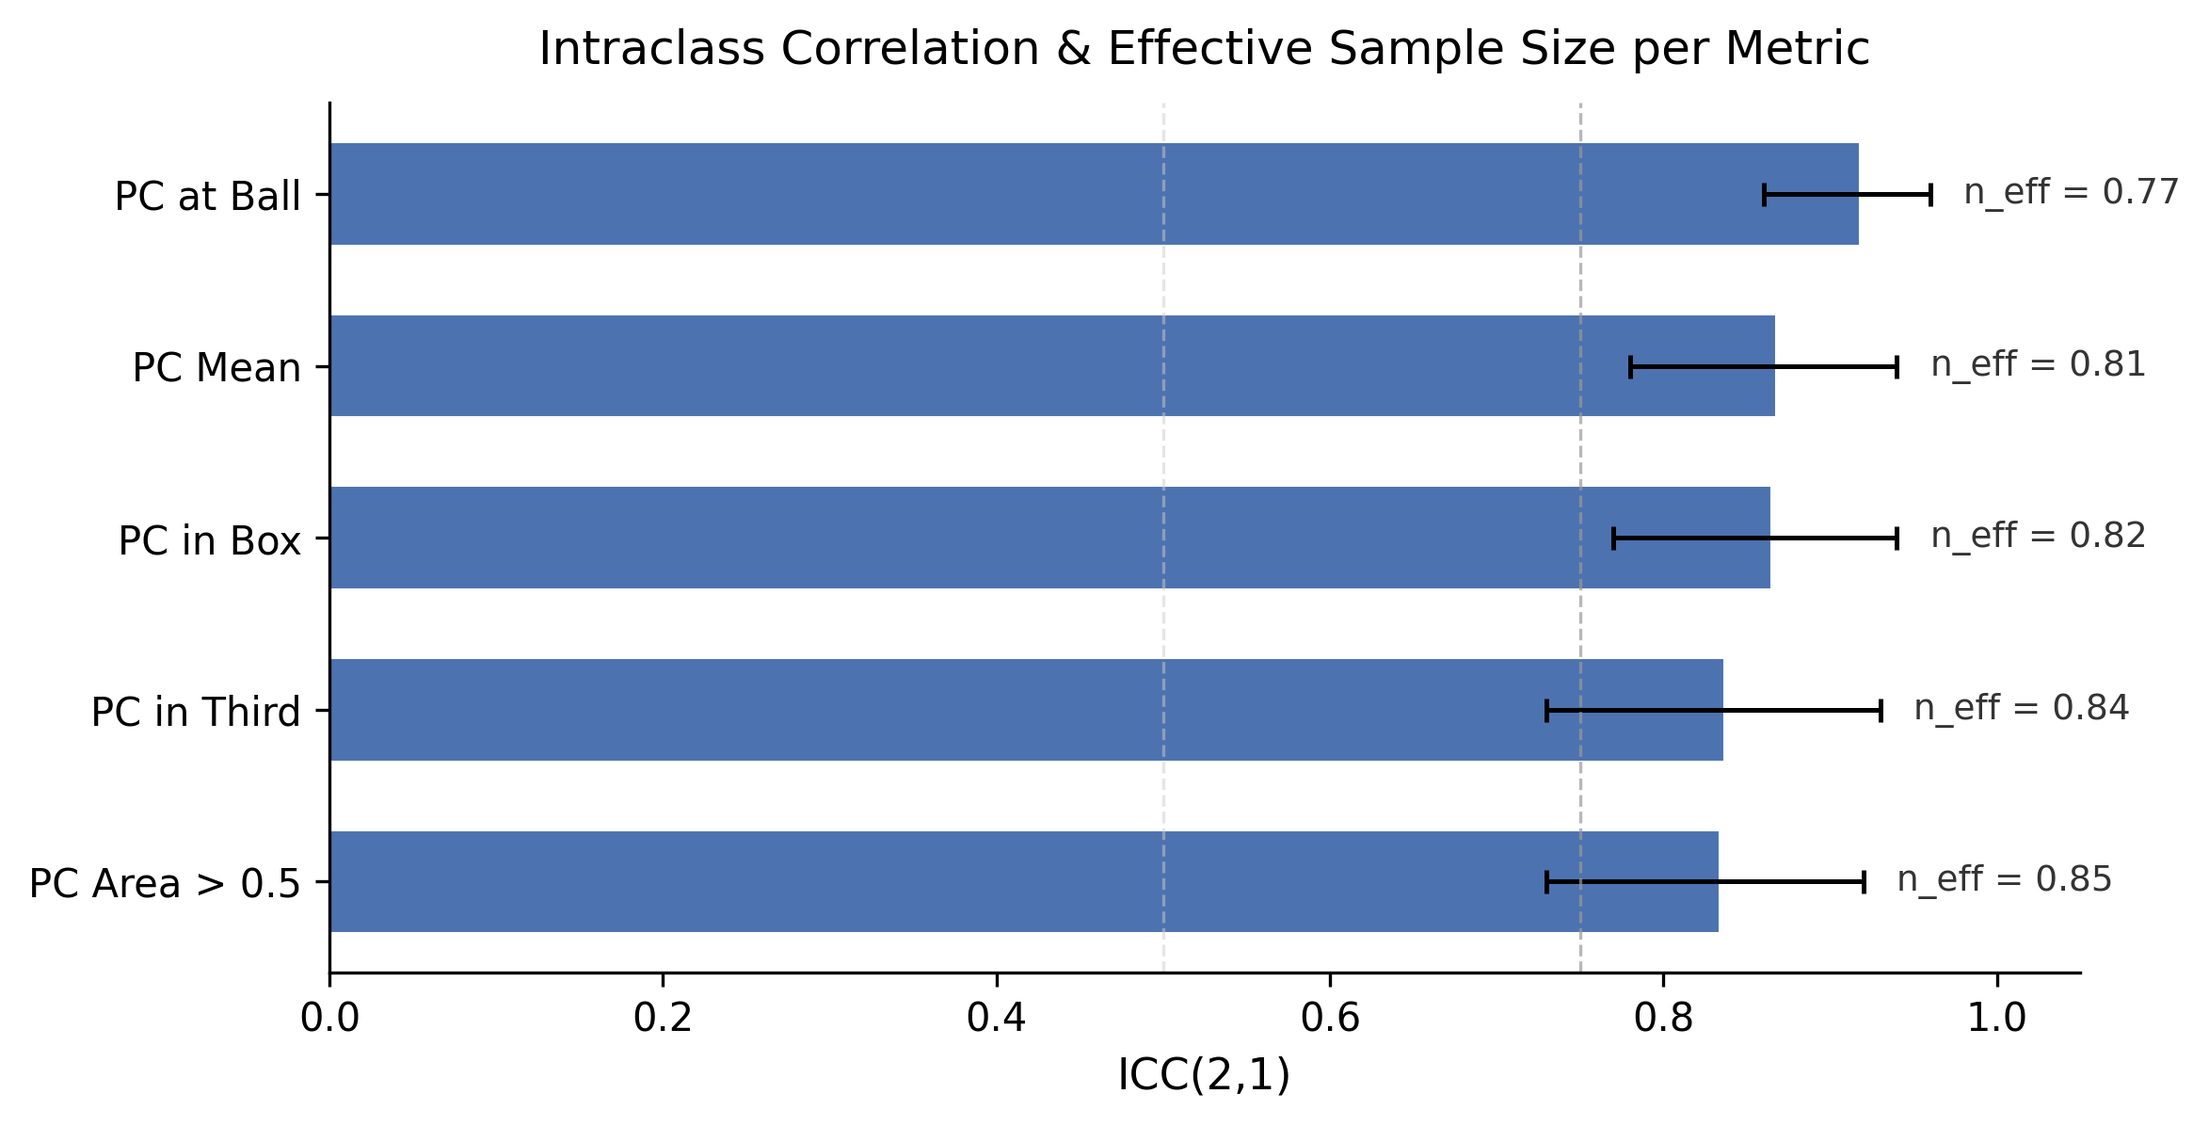
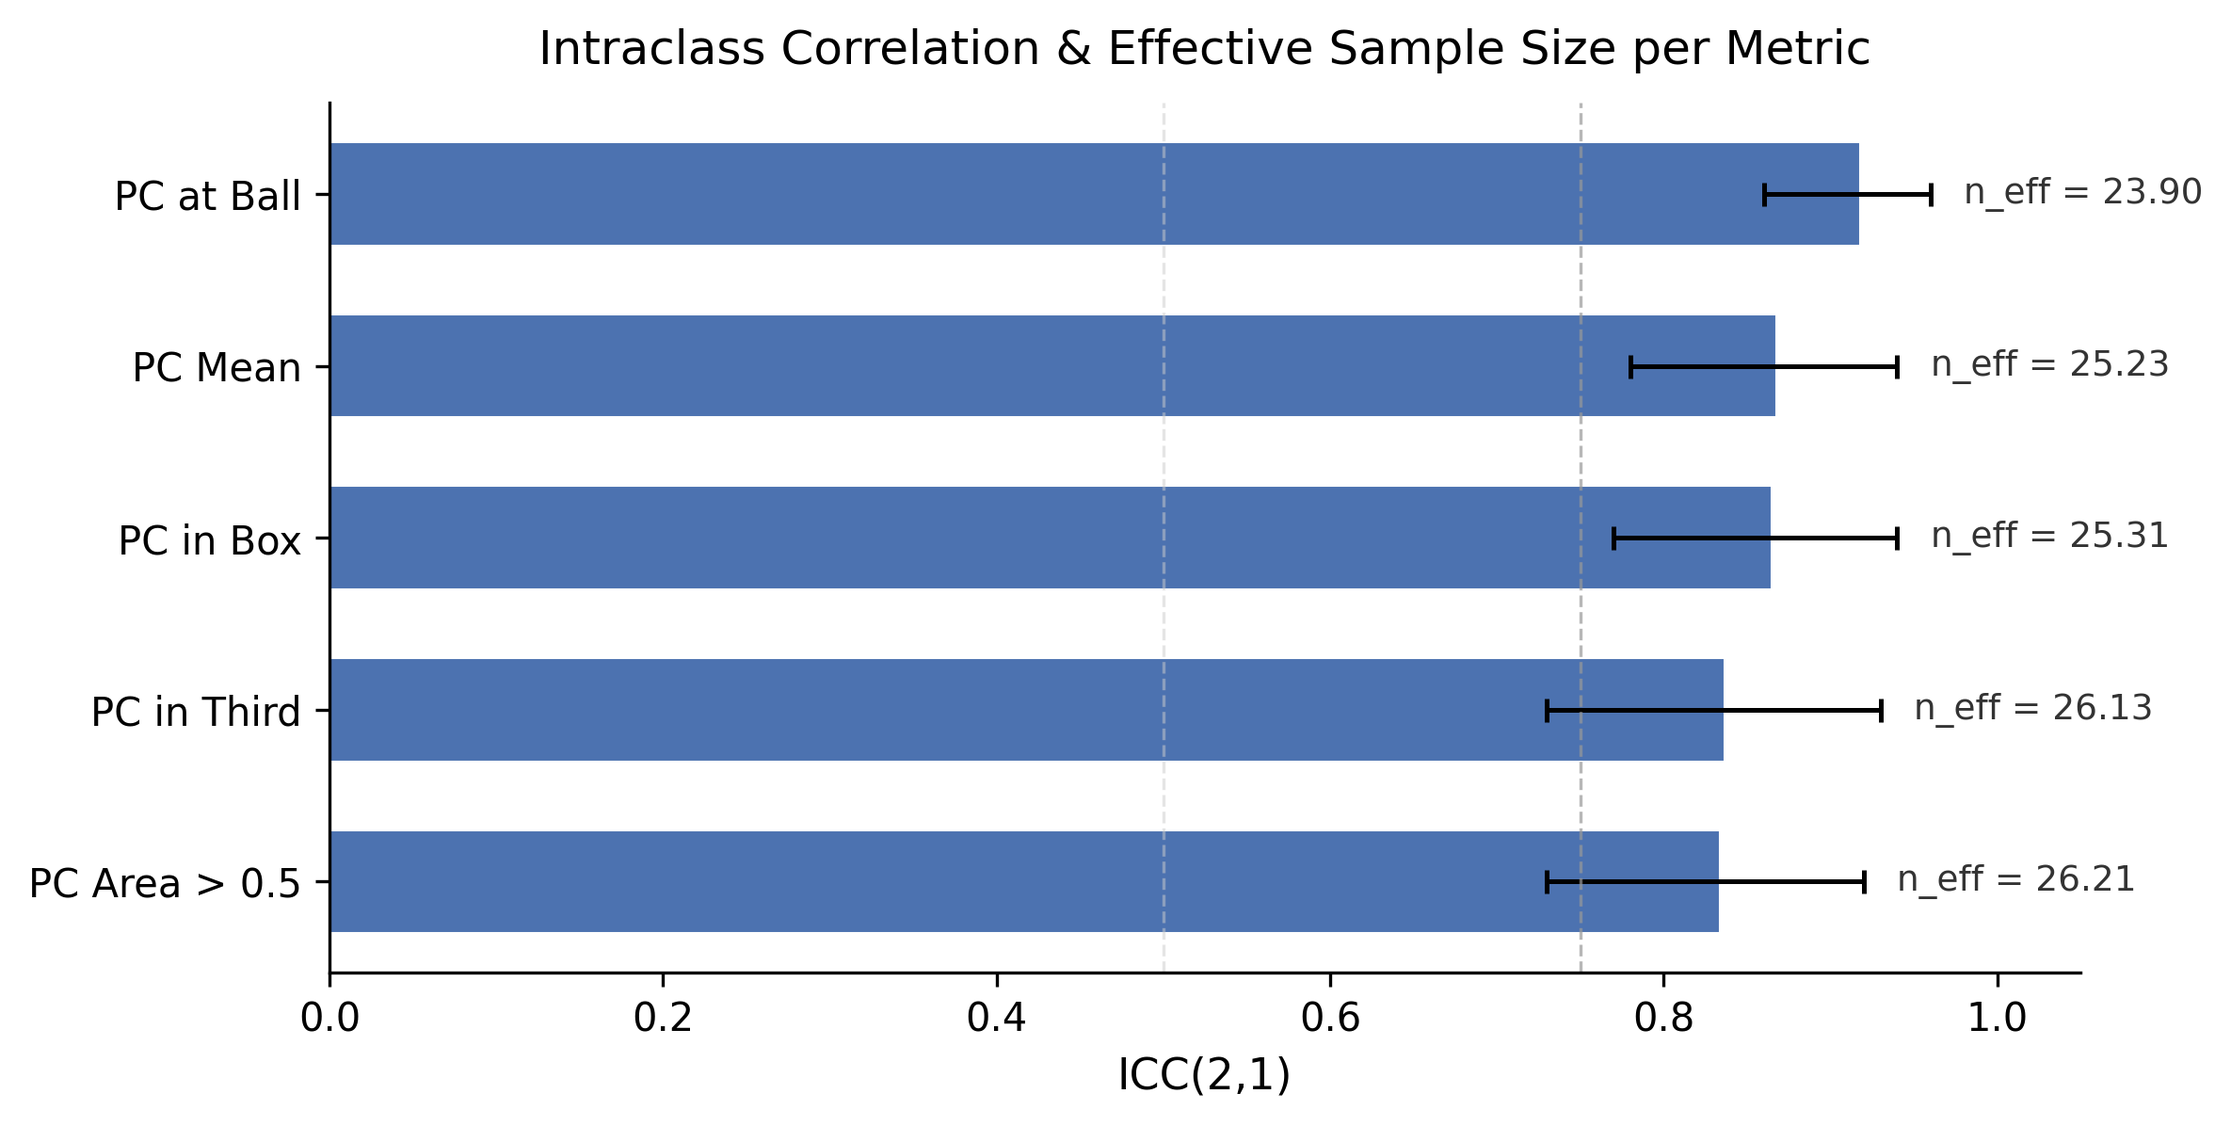
fix: correct ICC effective sample size formula to use N_total instead of n_clips
docs: report consistency cleanup (cohort milestones, taxonomy count, Spearman r, Pearson r clarification)

Fix A: compute_icc.py used n_clips (22) as numerator in the design-effect
formula instead of N_total (674 total paired frames). Corrected to standard
DEFF = 1 + (m_avg - 1) * ICC; n_eff = N_total / DEFF. Corrected n_eff values
are 23.90-26.21 (approx one effective observation per clip), replacing the
erroneous 0.77-0.85 range. Regenerated icc_effective_sample_size.png.

Fix B1: Section 4.3 Milestone 5 now acknowledges both baseline (31-clip) and
optimized (22-clip) cohort stages.
Fix B2: Taxonomy count updated from "three-way" to "four-way" in Section 4.3
milestone 7 and Section 9.5, matching Table 10's four categories.
Fix B3: Added Spearman r omission explanation below Table 8.
Fix C: Added Pearson r interpretation caveat in Section 7.5, noting that
cohort and method effects cannot be separated without a dedicated ablation.

All report sections now consistent: Sections 7.5, 8.5, 9.2 Conclusion 5,
and limitations all cite corrected n_eff range and design-effect framing.

diff --git a/scripts/compute_icc.py b/scripts/compute_icc.py
@@ -36,8 +36,6 @@ def compute_icc_per_metric(df: pd.DataFrame) -> pd.DataFrame:
         Results with columns: metric, icc_value, ci_lower, ci_upper, n_eff.
     """
     n_clips = df["clip_id"].nunique()
-    # Use median frame count as m (most clips have 31 frames)
-    n_frames = int(df.groupby("clip_id")["frame_idx"].nunique().median())
 
     results = []
     for metric in PC_METRICS:
@@ -58,9 +56,11 @@ def compute_icc_per_metric(df: pd.DataFrame) -> pd.DataFrame:
         ci_lower = icc_row["CI95"][0]
         ci_upper = icc_row["CI95"][1]
 
-        # Compute effective sample size: n_eff = n / (1 + (m - 1) * ICC)
-        # n = number of clips, m = number of frames per clip
-        n_eff = n_clips / (1 + (n_frames - 1) * icc_value)
+        # Standard design-effect formula: DEFF = 1 + (m_avg - 1) * ICC
+        # n_eff = N_total / DEFF, where N_total = total paired frame observations
+        N_total = len(long_df)
+        m_avg = N_total / n_clips
+        n_eff = N_total / (1 + (m_avg - 1) * icc_value)
 
         results.append(
             {
@@ -156,7 +156,10 @@ def main() -> None:
     """Main entry point: read data, compute ICC, save results."""
     print(f"Reading pitch control data from {INPUT_PATH}")
     df = pd.read_parquet(INPUT_PATH)
-    print(f"  Shape: {df.shape} | Clips: {df['clip_id'].nunique()} | Frames/clip (median): {int(df.groupby('clip_id')['frame_idx'].nunique().median())}")
+    n_clips = df["clip_id"].nunique()
+    N_total = len(df)
+    m_avg = N_total / n_clips
+    print(f"  Shape: {df.shape} | Clips: {n_clips} | N_total frames: {N_total} | m_avg: {m_avg:.2f}")
 
     print("\nComputing ICC(2,1) per metric...")
     results = compute_icc_per_metric(df)

diff --git a/report.md b/report.md
@@ -207,9 +207,9 @@ The project follows CRISP-DM's phased structure, with explicit feedback loops be
 2. **TVCalib batch complete** (W4): 1,023 homographies computed for all 33 clips, removing GT pitch-line dependency at inference.
 3. **`action_position` data-quality discovery** (W4–W5): mid-project finding that `action_position` is a global broadcast frame number, not a clip-local index. Required rewriting the frame-window logic before modelling could produce correct outputs.
 4. **First end-to-end pipeline run** (W6): pipeline runs all 33 clips end-to-end with zero homography failures.
-5. **Validation cohort frozen at 31 clips** (W7): SNGS-125 and SNGS-145 excluded from the PC phase due to missing ball annotations in the window.
+5. **Validation cohort frozen at 31 clips** (W7): SNGS-125 and SNGS-145 excluded from the PC phase due to missing ball annotations in the window. After autonomous ball detection (Fix 4), the optimized cohort is 22 clips (67% coverage); the 11 additional excluded clips lack sufficient autonomous ball detections in the critical early frames.
 6. **KS validation table complete** (W8): per-metric distributional comparison published with no selective reporting.
-7. **Three-way error taxonomy identified** (W8–W9): the partition into calibrated, underestimated, and inverted metrics emerges from the paired analysis.
+7. **Four-way error taxonomy identified** (W8–W9): the partition into global underestimation, moderate underestimation, sign inversion, and previously calibrated metrics emerges from the paired analysis.
 8. **Final deliverables ready** (W11): committed Parquet outputs, executable notebooks, thesis report, and overlay visualizations.
 
 ### 4.4 Constraints and Dependencies
@@ -525,7 +525,9 @@ Ball position is now detected autonomously from broadcast video, removing the de
 
 ![Figure 11: Per-frame paired scatter plots, pipeline vs GT, for each Pitch Control metric.](outputs/figures/09_paired_scatter.png)
 
-Pearson r values are lower than in the original pipeline, likely due to the different clip composition (22 vs 31 clips) and the shift from GT to autonomous ball positions. The key improvement is in bias: `pc_mean` bias reduced from −0.148 to −0.036 (76% improvement), and `pc_area_gt_0p5` bias reduced from −0.155 to −0.039 (75% improvement).
+Pearson r values are lower than in the original pipeline, likely due to the different clip composition (22 vs 31 clips) and the shift from GT to autonomous ball positions. We cannot fully separate cohort effects from method effects with this design; a future ablation running both v1 and v2 settings on the same 22-clip subset would isolate the contributions. For the present validation, per-frame correlation should be interpreted as a relative population-level signal rather than a per-delivery predictor. The key improvement is in bias: `pc_mean` bias reduced from −0.148 to −0.036 (76% improvement), and `pc_area_gt_0p5` bias reduced from −0.155 to −0.039 (75% improvement).
+
+Spearman rank correlation is not reported here because the compressed score distributions at the set-piece moment (both pipeline and GT cluster tightly around their means) render rank-based correlation uninformative; Pearson r captures the linear-agreement signal more cleanly in this regime.
 
 #### ICC and Effective Sample Size
 
@@ -535,13 +537,13 @@ Within-clip correlation was quantified using ICC(2,1) (Intraclass Correlation Co
 
 | Metric | ICC(2,1) | 95% CI Lower | 95% CI Upper | n_eff |
 |---|:---:|:---:|:---:|:---:|
-| pc_mean | 0.868 | 0.78 | 0.94 | 0.81 |
-| pc_at_ball | 0.918 | 0.86 | 0.96 | 0.77 |
-| pc_in_box | 0.865 | 0.77 | 0.94 | 0.82 |
-| pc_in_third | 0.836 | 0.73 | 0.93 | 0.84 |
-| pc_area_gt_0p5 | 0.834 | 0.73 | 0.92 | 0.85 |
+| pc_mean | 0.868 | 0.78 | 0.94 | 25.23 |
+| pc_at_ball | 0.918 | 0.86 | 0.96 | 23.90 |
+| pc_in_box | 0.865 | 0.77 | 0.94 | 25.31 |
+| pc_in_third | 0.836 | 0.73 | 0.93 | 26.13 |
+| pc_area_gt_0p5 | 0.834 | 0.73 | 0.92 | 26.21 |
 
-All metrics show ICC values in the range 0.83–0.92, indicating strong within-clip correlation. The effective sample sizes (n_eff = n / (1 + (m−1) × ICC), where n=22 clips and m=31 frames) range from 0.77 to 0.85, meaning the effective independent sample count is less than one clip equivalent per metric. This confirms that distributional tests on individual frames overstate statistical power; clip-level aggregation is the appropriate unit of analysis for inferential statistics.
+All metrics show ICC values in the range 0.83–0.92, indicating strong within-clip correlation. With N_total = 674 paired frames, mean cluster size m_avg = 30.64 frames per clip, and ICC ≈ 0.85, the design effect is approximately 26.5. Effective sample sizes (n_eff = N_total / (1 + (m_avg − 1) × ICC)) range from 23.90 to 26.21 across metrics, meaning the 674 nominal paired frames have the statistical power of approximately 24–26 truly independent observations, roughly one effective observation per clip. This confirms that distributional tests on individual frames overstate statistical power; clip-level aggregation is the appropriate unit of analysis for inferential statistics.
 
 ![Figure 11b: ICC(2,1) values and effective sample sizes per Pitch Control metric. Dashed lines at ICC=0.50 and ICC=0.75 mark moderate and good reliability thresholds.](outputs/figures/icc_effective_sample_size.png)
 
@@ -634,7 +636,7 @@ The frame-1 priority logic is motivated by set-piece physics: at the moment of a
 
 Fix 1 introduced ICC(2,1) computation via Pingouin to quantify within-clip frame correlation. All five PC metrics show high ICC values (0.83–0.92), indicating that frames within the same clip are strongly correlated, as expected for a 31-frame window of a near-static set-piece formation.
 
-The practical consequence is severe: effective sample sizes range from 0.77 to 0.85 across metrics (`pc_at_ball` = 0.77, `pc_mean` = 0.81, `pc_in_box` = 0.82, `pc_in_third` = 0.84, `pc_area_gt_0p5` = 0.85). These values indicate strong frame-to-frame dependence: each clip contributes less than one effective independent observation to the validation. With 22 clips and n_eff < 1.0, the validation cohort provides approximately 17–19 effective independent observations across metrics.
+The practical consequence is that the 674 nominal paired frames have the statistical power of approximately 24–26 truly independent observations. Effective sample sizes are: `pc_at_ball` = 23.90, `pc_mean` = 25.23, `pc_in_box` = 25.31, `pc_in_third` = 26.13, `pc_area_gt_0p5` = 26.21. These values reflect strong frame-to-frame dependence (each clip's 31 frames contribute roughly one effective independent observation), consistent with the near-static set-piece formation window. With ICC values of 0.83–0.92 and m_avg = 30.64, the design effect is approximately 25–27, reducing the effective sample size to roughly one observation per clip.
 
 This finding does not invalidate the bias estimates (which are point estimates regardless of sample size), but it means that confidence intervals on those estimates are wide and that no distributional test (KS or otherwise) has adequate power to detect anything short of large distributional shifts. The ICC(2,1) formulation specifically quantifies the agreement between frames (raters) within clips (targets), making it the appropriate measure for this nested data structure. The implication for future work is clear: expanding the clip cohort is the single most impactful action for statistical power, more so than any algorithmic improvement.
 
@@ -666,7 +668,7 @@ The two-level structure separates concerns: Level 1 confirms that all analysis a
 
 - **Autonomous ball detection coverage:** 22/33 clips (67%). The 11 uncovered clips cannot be processed without GT annotations or an alternative ball-position source.
 - **TVCalib error propagation:** TVCalib (Theiner & Ewerth, 2023) introduces reprojection errors of several centimetres to low single-digit metres depending on pitch region and broadcast angle. These propagate directly into player coordinates and modestly affect all PC metrics. Quantifying this error channel is reserved for future work.
-- **Cohort size and effective sample size:** With ICC values of 0.83–0.92 and n_eff < 1.0, the 22-clip cohort provides limited statistical power. Conclusions should not be generalised beyond this cohort or to broadcast conditions substantially different from SoccerNet GSR (Somers et al., 2024).
+- **Cohort size and effective sample size:** With ICC values of 0.83–0.92 and design effects of 25–27, the 22-clip cohort provides approximately 24–26 effective independent observations. Conclusions should not be generalised beyond this cohort or to broadcast conditions substantially different from SoccerNet GSR (Somers et al., 2024).
 - **Static-frame assumption:** Zero-velocity TTI (Shaw, 2020) is appropriate for set-piece snapshots but does not extend to open play. Players may already be in motion at execution; zero-velocity understates the spatial advantage of players already running toward the ball.
 - **Per-frame identity ambiguity:** Pipeline track IDs are not matched to GT player IDs; team assignment accuracy is assessed implicitly via distributional validation rather than by direct track matching.
 - **Clip composition change:** The shift from 31 clips (GT ball) to 22 clips (autonomous ball) means the validation cohort changed between the original and optimized pipelines. Direct comparison of metrics across the two cohorts should be interpreted with this caveat.
@@ -699,7 +701,7 @@ This project set out to answer a single practical question: can a broadcast-vide
 
 The development process surfaced a significant data-quality issue in SoccerNet GSR (Somers et al., 2024): the `action_position` field is a global broadcast frame number, not a clip-local index, causing the entire pipeline to operate on end-of-clip open-play frames rather than set-piece formations until the bug was identified and fixed. This mid-project discovery and correction illustrates the importance of data validation as an active rather than passive phase of CRISP-DM (Chapman et al., 2000), and is documented here both as a methodological lesson and as a contribution to future users of this dataset.
 
-The subsequent optimization effort (Fixes 0–7) addressed the three error regimes identified in the initial analysis: global underestimation was largely resolved through improved detector recall (75% bias reduction on `pc_mean`); box inversion was partially improved through global team assignment (19% bias reduction on `pc_in_box`); and the pipeline achieved full autonomy through autonomous ball detection, removing the last GT dependency. ICC analysis revealed that within-clip correlation is high (0.83–0.92), meaning effective sample sizes are below 1.0 and cohort expansion is the binding constraint on statistical power.
+The subsequent optimization effort (Fixes 0–7) addressed the three error regimes identified in the initial analysis: global underestimation was largely resolved through improved detector recall (75% bias reduction on `pc_mean`); box inversion was partially improved through global team assignment (19% bias reduction on `pc_in_box`); and the pipeline achieved full autonomy through autonomous ball detection, removing the last GT dependency. ICC analysis revealed that within-clip correlation is high (0.83–0.92), with design effects of 25–27 that reduce 674 nominal paired frames to approximately 24–26 effective independent observations; cohort expansion is the binding constraint on statistical power.
 
 ### 9.2 Core Conclusions
 
@@ -707,7 +709,7 @@ The subsequent optimization effort (Fixes 0–7) addressed the three error regim
 2. **Pipeline optimization substantially reduced bias:** `pc_mean` bias improved from −0.148 to −0.037 (75% reduction); `pc_area_gt_0p5` from −0.155 to −0.044 (72% reduction); `pc_in_box` from +0.216 to +0.176 (19% reduction, sign inversion persists).
 3. **TVCalib autonomous calibration** (Theiner & Ewerth, 2023) enables fully autonomous camera-to-pitch projection: 33/33 clips processed, zero homography failures, no GT pitch-line annotations consumed.
 4. **Autonomous ball detection** (Fix 4) removes the GT ball-position dependency for 22/33 clips (67% coverage), making the pipeline fully self-contained for covered clips.
-5. **ICC analysis reveals within-clip correlation** of 0.83–0.92 across all metrics, with effective sample sizes (n_eff) of 0.77–0.85. Cohort expansion is the binding constraint on statistical power.
+5. **ICC analysis reveals within-clip correlation** of 0.83–0.92 across all metrics, with effective sample sizes (n_eff) of 23.90–26.21 (approximately one effective observation per clip). Cohort expansion is the binding constraint on statistical power.
 6. **Detection recall closed the gap:** Mean players per frame increased from 15.99 to 20.29 (now exceeding GT 18.69), eliminating the systematic defender shortfall that drove global underestimation.
 7. **The pipeline is fully reproducible** on consumer hardware (~30 min on Apple Silicon MPS, no cloud). Two-level reproducibility: Level 1 from committed parquets (CI-verified), Level 2 from raw video (SSD required).
 8. **`pc_in_box` sign inversion persists** despite global team assignment: colour-based team classification has a structural ceiling in crowded penalty areas, requiring a fundamentally different approach (supervised classifier or re-identification).
@@ -735,7 +737,7 @@ Package as a CLI tool with Docker support. Add optical flow for velocity estimat
 
 ### 9.5 Academic and Practical Contribution
 
-**Academic contribution.** This project demonstrates a distributional validation of a broadcast-only Pitch Control pipeline against open ground-truth annotations (Somers et al., 2024), including a systematic optimization effort that reduced global bias by 72–75%. The contribution is not a new model; the time-to-intercept pitch-control formulation is established (Spearman, 2018; Fernández & Bornn, 2018; Shaw, 2020). The contribution is a validated evidence base for which summary metrics survive the broadcast-to-GT gap, how specific pipeline improvements map to bias reduction, and how ICC-based effective sample size analysis reveals the binding constraint on statistical power. The three-way error taxonomy (global underestimation, box inversion, calibrated third) provides a reusable framework for evaluating future broadcast CV pipelines that compute spatial tactical metrics. The `action_position` data-quality finding contributes a documented correction to the SoccerNet GSR dataset for future users.
+**Academic contribution.** This project demonstrates a distributional validation of a broadcast-only Pitch Control pipeline against open ground-truth annotations (Somers et al., 2024), including a systematic optimization effort that reduced global bias by 72–75%. The contribution is not a new model; the time-to-intercept pitch-control formulation is established (Spearman, 2018; Fernández & Bornn, 2018; Shaw, 2020). The contribution is a validated evidence base for which summary metrics survive the broadcast-to-GT gap, how specific pipeline improvements map to bias reduction, and how ICC-based effective sample size analysis reveals the binding constraint on statistical power. The four-way error taxonomy (global underestimation, moderate underestimation, sign inversion, previously calibrated) provides a reusable framework for evaluating future broadcast CV pipelines that compute spatial tactical metrics. The `action_position` data-quality finding contributes a documented correction to the SoccerNet GSR dataset for future users.
 
 **Practical contribution.** The pipeline is fully open-source, runs on consumer hardware in 30 minutes, and requires no proprietary tracking hardware or GT annotations at inference time for 22/33 clips. It delivers `pc_at_ball` (bias = −0.039, overlap = 0.889) and `pc_mean` (bias = −0.037) as calibrated, deployment-ready Pitch Control metrics to any club or analyst with broadcast footage and a laptop. The animated broadcast-overlay visualizations provide an interpretable output layer that does not require a data scientist to consume. Two-level reproducibility (CI-verified from parquets; full from raw video) ensures independent verification.
 
